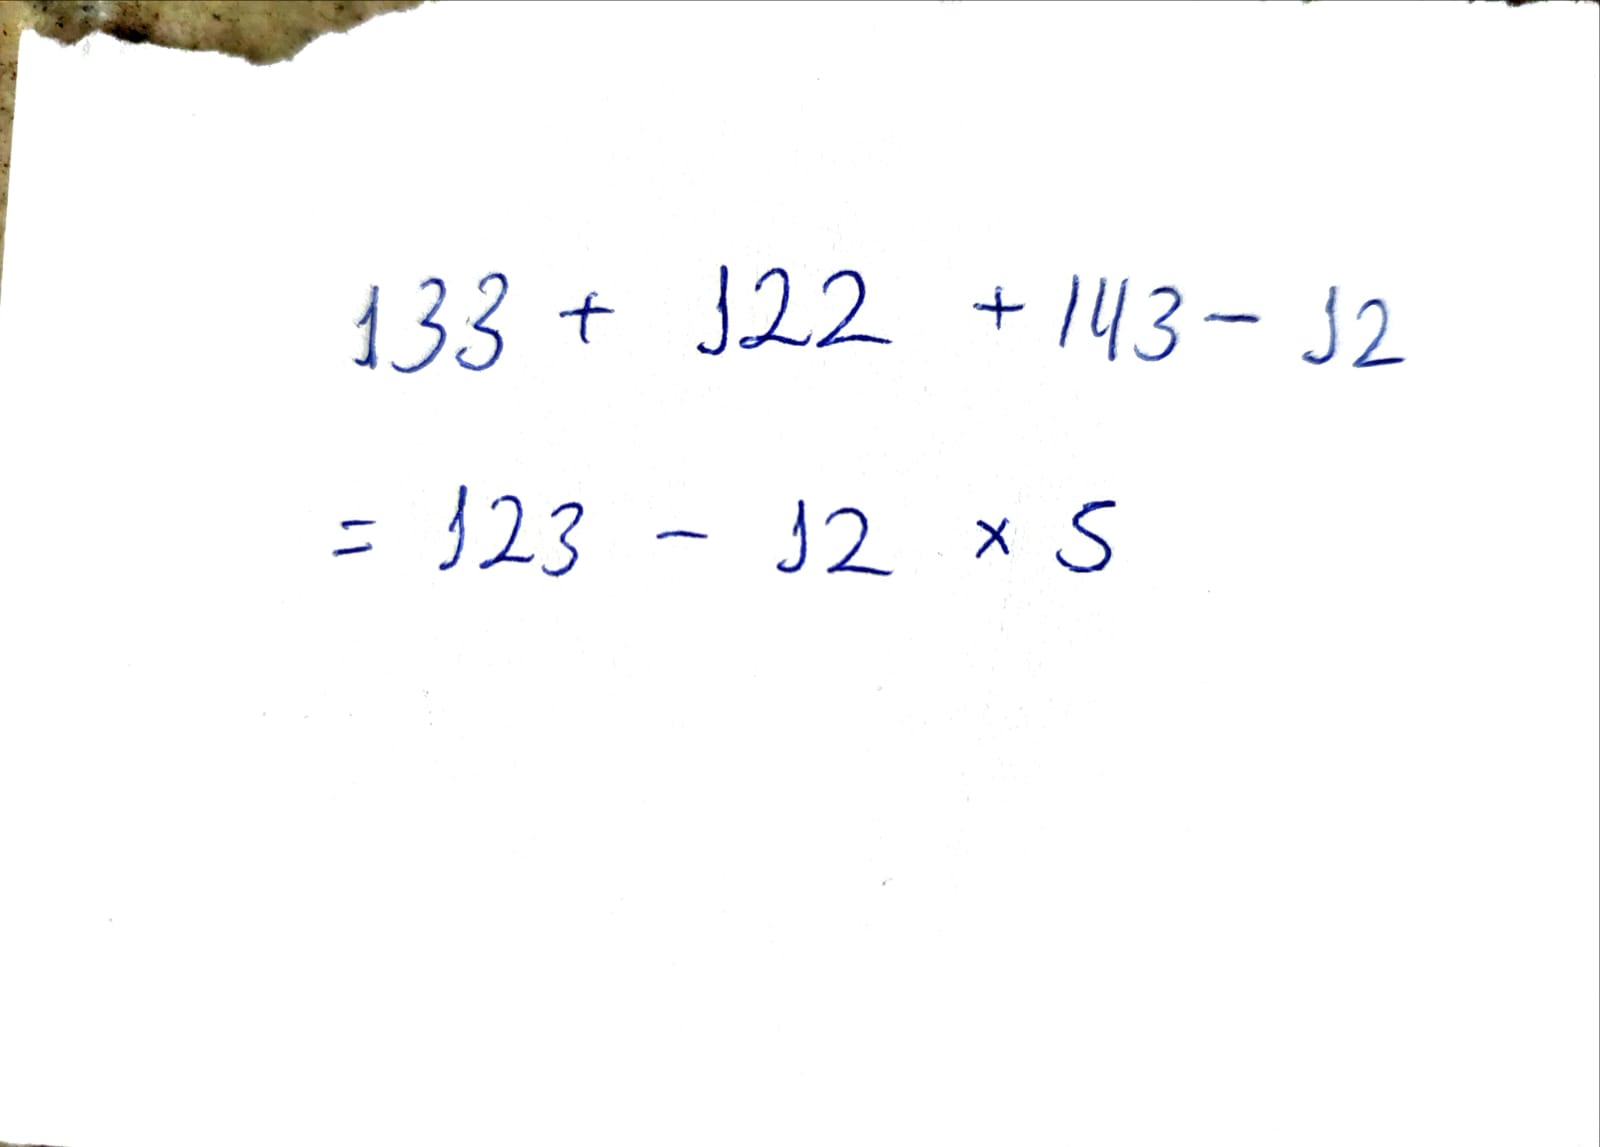
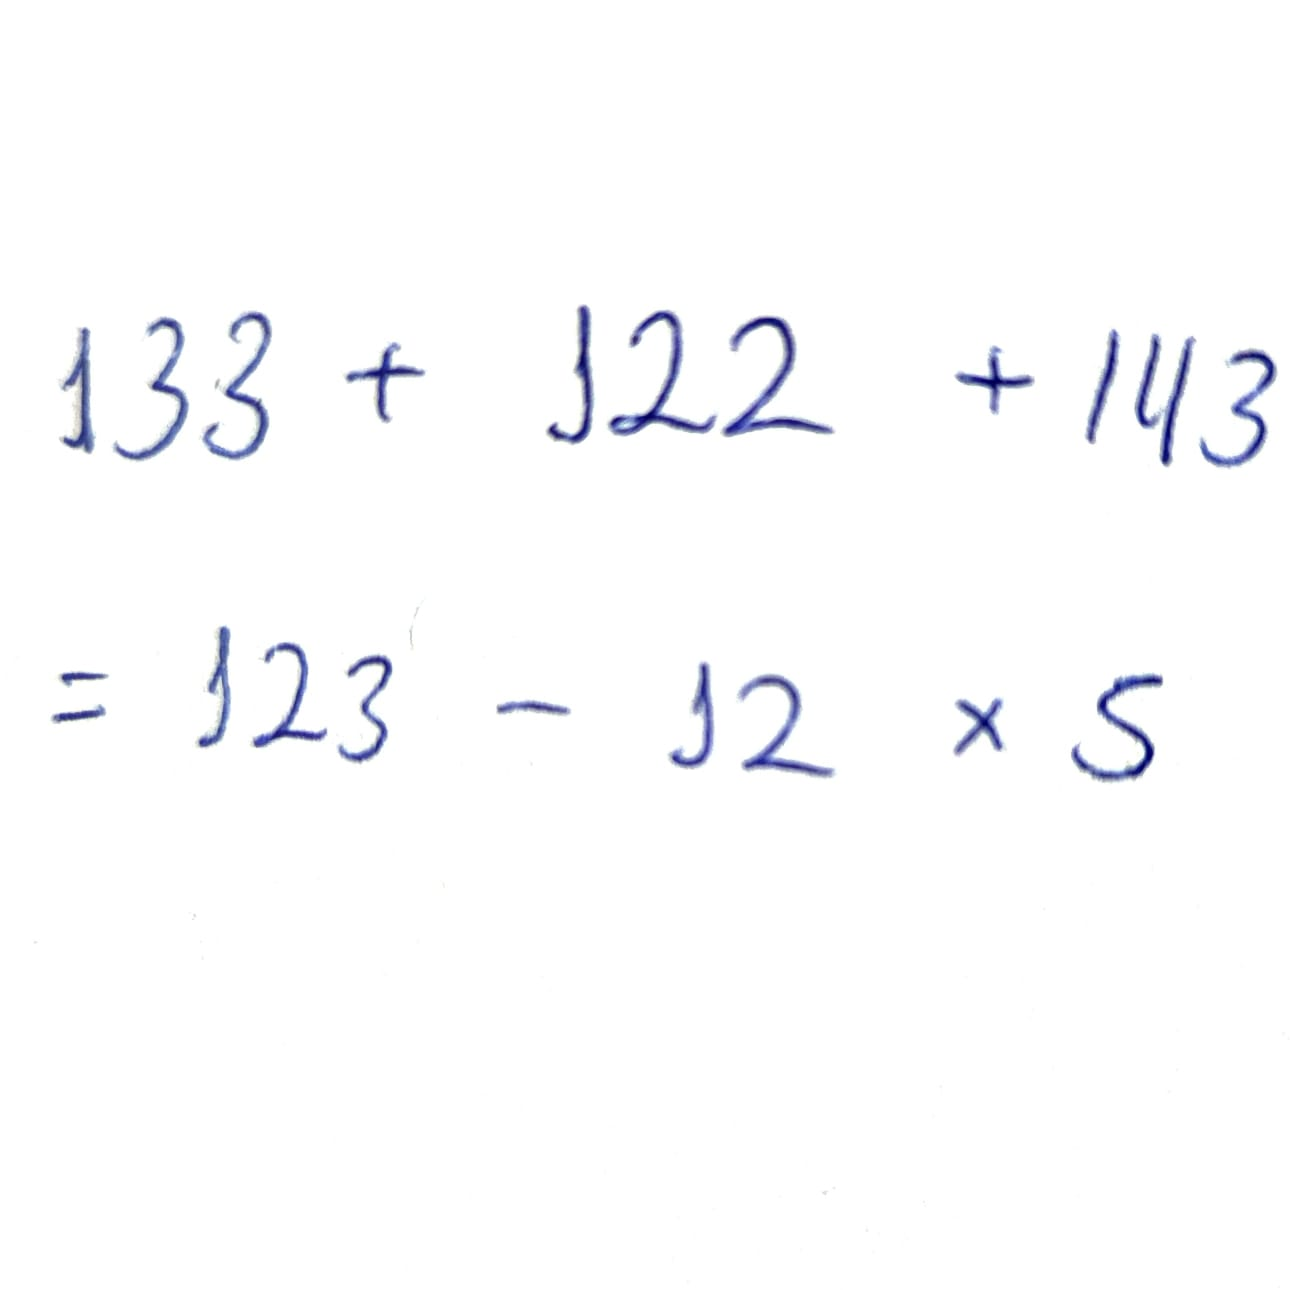
Preprocessor Update

diff --git a/src/preprocessor.py b/src/preprocessor.py
@@ -5,21 +5,33 @@ from typing import Tuple, List
 
 
 class ImageProcessor:
+    """
+    Classe responsável pelo pré-processamento de imagens contendo equações matemáticas.
+    """
 
-    def __init__(self, image_path: str | Path ):
+    def __init__(self, image_path: str | Path):
         self.image_path = str(image_path)
-        self.original_image = None
+        self.original_image: np.ndarray | None = None
+        self.processed_image: np.ndarray | None = None
         
-        # 1 - Gray Scale
-    def load_image(self) -> np.ndarray:     # Load image in GrayScale
-        self.original_image = cv2.imread(self.image_path, cv2.IMREAD_GRAYSCALE) 
-        if self.original_image is None:
-            raise FileNotFoundError(f"Imagem não encontrada! Path: {self.image_path}")
+    def load_image(self) -> np.ndarray:
+        """Carrega a imagem em escala de cinza."""
+        path = Path(self.image_path)
+        if not path.exists():
+            raise FileNotFoundError(f"O arquivo não existe: {path.absolute()}")
+
+        image = cv2.imread(str(path), cv2.IMREAD_GRAYSCALE)
+        if image is None:
+            raise ValueError(f"Falha ao carregar a imagem (formato inválido?): {path.absolute()}")
+        
+        self.original_image = image
         return self.original_image
     
-    def get_processed_pipeline(self) -> Tuple[np.ndarray, np.ndarray, List[np.ndarray]]:
-        #                                   OriginalImg, ProcessedImg, SymbolList
-        
+    def get_processed_pipeline(self) -> Tuple[np.ndarray, np.ndarray]:
+        """
+        Executa o pipeline de pré-processamento básico (carregar, blur, binarizar, dilatar).
+        Retorna: (imagem_original, imagem_binaria)
+        """
         image = self.load_image()
         
         # 2 - Blurring
@@ -31,28 +43,62 @@ class ImageProcessor:
             cv2.ADAPTIVE_THRESH_GAUSSIAN_C, 
             cv2.THRESH_BINARY_INV, 11, 2
         )
-        # 4 - Bold
-        kernel = np.ones((3,3), np.uint8)
-        thresh = cv2.dilate(thresh, kernel, iterations=1)
-        # 5 - Find Outlines
-        contours, _ = cv2.findContours(thresh, cv2.RETR_EXTERNAL, cv2.CHAIN_APPROX_SIMPLE)
-        symbols = []
         
+        # 4 - Bold (Dilatação)
+        kernel = np.ones((3, 3), np.uint8)
+        self.processed_image = cv2.dilate(thresh, kernel, iterations=1)
+        
+        # Garantia de retorno
+        if self.original_image is None or self.processed_image is None:
+            raise RuntimeError("Falha ao processar as imagens no pipeline.")
+
+        return self.original_image, self.processed_image
+    
+    def extract_bounding_boxes(self, binary_img: np.ndarray) -> List[Tuple[int, int, int, int]]:
+        """
+        Detecta contornos na imagem binária e retorna as coordenadas das bounding boxes.
+        """
+        contours, _ = cv2.findContours(binary_img, cv2.RETR_EXTERNAL, cv2.CHAIN_APPROX_SIMPLE)
+        
+        boxes = []
         for cnt in contours:
             x, y, w, h = cv2.boundingRect(cnt)
-            #size filter to ignore noise 
+            # Filtro de tamanho para ignorar ruídos
             if w > 5 and h > 5:
-                roi = thresh[y:y+h, x:x+w]
-                symbols.append((x, roi)) # X to order Left to Right
-        # Order with X Lto R
-        symbols.sort(key=lambda item: item[0])
-        ordered_symbols = [s[1] for s in symbols]
-        return image, thresh, ordered_symbols
-    
+                boxes.append((x, y, w, h))
 
-# --- Bloco de Teste ---
+        # Ordenar da esquerda para a direita
+        boxes.sort(key=lambda item: item[0])
+        return boxes
+    
+    def prepare_for_nn(self, roi: np.ndarray, target_size: int = 28) -> np.ndarray:
+        """
+        Prepara uma Região de Interesse (ROI) para entrada em uma Rede Neural.
+        """
+        h, w = roi.shape
+        if h == 0 or w == 0:
+            return np.zeros((target_size, target_size), dtype=np.uint8)
+        
+        # Calcula a escala mantendo a proporção
+        if h > w:
+            scale = target_size / h
+            new_h, new_w = target_size, max(1, int(w * scale))
+        else:
+            scale = target_size / w
+            new_h, new_w = max(1, int(h * scale)), target_size
+        
+        # Redimensiona
+        resized_roi = cv2.resize(roi, (new_w, new_h), interpolation=cv2.INTER_AREA)
+
+        # Cria fundo preto e centraliza a ROI
+        padded_img = np.zeros((target_size, target_size), dtype=np.uint8)
+        start_y = (target_size - new_h) // 2
+        start_x = (target_size - new_w) // 2
+        
+        padded_img[start_y:start_y + new_h, start_x:start_x + new_w] = resized_roi
+
+        return padded_img
+
+
 if __name__ == "__main__":
-    # Substitua pelo caminho de uma foto que você tirar de um papel escrito "2+2"
-    # test_path = "data/raw/teste_equacao.jpg" 
-    # thresh_img, detected_symbols = process_equation_image(test_path)
-    print("Script do PreProcesser pronto!")
+    print("ImageProcessor pronto para uso!")

diff --git a/tests/test_segmentation.py b/tests/test_segmentation.py
@@ -1,0 +1,76 @@
+import sys
+import cv2
+import matplotlib.pyplot as plt
+from pathlib import Path
+
+# Adiciona o diretório raiz ao sys.path para encontrar o pacote src
+BASE_DIR = Path(__file__).resolve().parent.parent
+if str(BASE_DIR) not in sys.path:
+    sys.path.append(str(BASE_DIR))
+
+from src.preprocessor import ImageProcessor
+
+def test_segmentation_visual():
+    """
+    Testa visualmente a segmentação e o pré-processamento para redes neurais.
+    """
+    # Caminho da imagem de teste
+    image_path = BASE_DIR / "data" / "raw" / "teste.jpg"
+    
+    if not image_path.exists():
+        print(f"[ERRO] Imagem não encontrada em: {image_path}")
+        return
+
+    try:
+        # 1. Instancia e executa o pipeline básico
+        processor = ImageProcessor(image_path)
+        original, binary = processor.get_processed_pipeline()
+        
+        # 2. Extrai as bounding boxes (Desacoplado)
+        boxes = processor.extract_bounding_boxes(binary)
+        print(f"[INFO] {len(boxes)} símbolos detectados.")
+
+        # 3. Prepara a imagem para visualização dos retângulos
+        # Converte para BGR para desenhar em cores
+        vis_original = cv2.cvtColor(original, cv2.COLOR_GRAY2BGR)
+        
+        processed_symbols = []
+        for (x, y, w, h) in boxes:
+            # Desenha retângulo verde na imagem original
+            cv2.rectangle(vis_original, (x, y), (x + w, y + h), (0, 255, 0), 2)
+            
+            # Extrai a ROI da imagem binária
+            roi = binary[y:y+h, x:x+w]
+            
+            # Prepara para Rede Neural (Pad & Resize)
+            nn_input = processor.prepare_for_nn(roi, target_size=28)
+            processed_symbols.append(nn_input)
+
+        # 4. Visualização com Matplotlib
+        plt.figure(figsize=(15, 8))
+        
+        # Subplot 1: Imagem Original com Bounding Boxes
+        plt.subplot(2, 1, 1)
+        plt.imshow(cv2.cvtColor(vis_original, cv2.COLOR_BGR2RGB))
+        plt.title(f"Detecção de Símbolos ({len(boxes)} encontrados)")
+        plt.axis('off')
+
+        # Subplot 2: Símbolos Processados para NN (Lado a Lado)
+        if processed_symbols:
+            # Cria uma grade para os símbolos
+            num_symbols = len(processed_symbols)
+            for i, sym in enumerate(processed_symbols):
+                plt.subplot(2, num_symbols, num_symbols + i + 1)
+                plt.imshow(sym, cmap='gray')
+                plt.title(f"Símbolo {i+1}")
+                plt.axis('off')
+
+        plt.tight_layout()
+        plt.show()
+        print("[SUCCESS] Teste de segmentação concluído com sucesso.")
+
+    except Exception as e:
+        print(f"[FALHA] Ocorreu um erro durante o teste: {e}")
+
+if __name__ == "__main__":
+    test_segmentation_visual()
